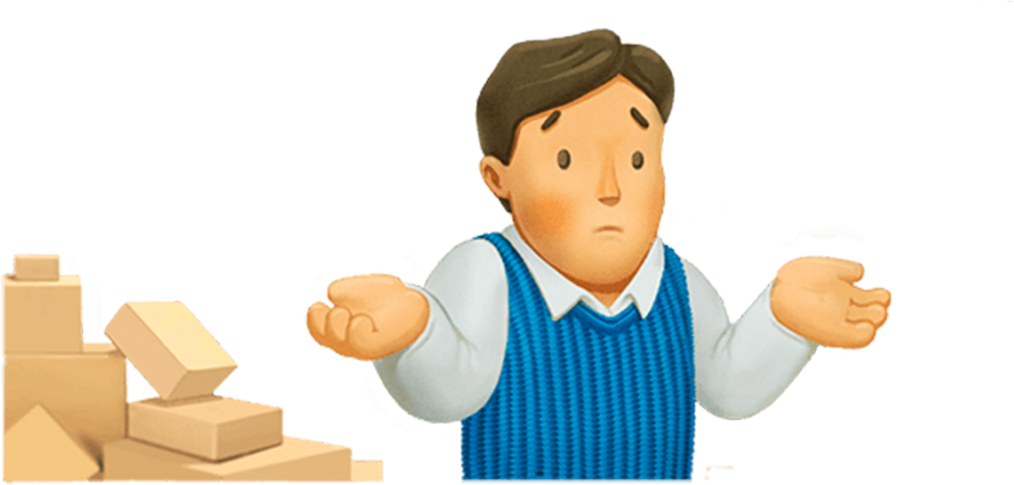
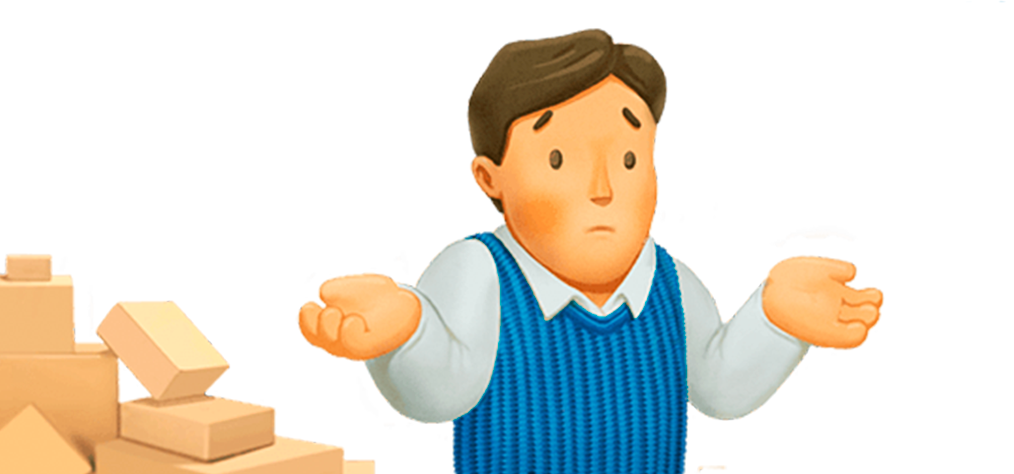
V0.7

Changed region(s): [[0.2751, 0.0591, 0.8866, 1.0], [0.0, 0.5021, 0.3974, 1.0], [0.4892, 0.0886, 0.5197, 0.1181]]

diff --git a/css/style.css b/css/style.css
@@ -93,6 +93,11 @@ a {
 	font-family: 'MyriadProRegular';
 
 } 
+p { 
+	text-decoration: none;
+	font-family: 'MyriadProRegular';
+
+} 
 #radio {
 	transform: scale(1.3);
 	opacity: 1;
@@ -126,7 +131,7 @@ a {
 footer{
 	display: block;
 	position: relative;
-	top: 10px;
+	top: 0px;
 	margin: auto;
 	bottom: 0%;
 	width: 100%;
@@ -414,8 +419,8 @@ TABLE{
 }
 #low{
 	position: relative;
-	height: 650px;
-	top: 50px;
+	height: 680px;
+	top: 74px;
 	margin: 0 auto;
 	margin-top: 0px;
 }
@@ -556,6 +561,7 @@ f{
 	color: blue;
 }	
 .works{
+	
 	position: relative;
 	display: block;
 	top: 10px;
@@ -564,15 +570,17 @@ f{
 	margin-top: 100px;
 }
 #halfsoc{
+	z-index:1;
 	position: relative;
 	display: block;
-	top: 10px;
+	top: 0px;
 	width: 100%;
-	background-image: url('../images/halfbot.png');	
+	background-image: url(../images/halfbot.png);
 	background-size: 100%;
 	
 }
 #soc{
+	
 	position: relative;
 	display: block;
 	width: 700px;
@@ -587,14 +595,14 @@ f{
 	position: relative;
 	display: block;
 	width: 990px;
-	top: 10px;
+	top: 30px;
 	margin: 0 auto;
 }
 #noitems1{
 	position: relative;
 	display: block;
 	background: url(../images/down.png); 
-	width: 1120px;
+	width: 1132px;
 	height: 100px;	
 }
 #textnoitems{

diff --git a/include/footer.php b/include/footer.php
@@ -1,10 +1,11 @@
 <?php
 echo'
-<div id="halfsoc">
+<div id="halfsoc" >
 <div id="soc">
- <div id="facebook"><a href="https://www.facebook.com/pli.pyrotehnika" target="_blank"><img src="images/facebook.png" > </div>
-  <div id="insta" style="position:absolute;left:228px;top:0px;"><a href="https://www.instagram.com/123pli_/" target="_blank" ><img src="images/instagram.png" style="left:-5px;"> </div>
-  <div id="vk" style="position:absolute;left:456px;top:0px;"><a href="https://vk.com/fejerverk123pli" target="_blank"><img src="images/vk.png" style="left:-10px;"></a></div>
+<img src="images/halfbot.png" >
+ <div id="facebook" style="position:absolute;left:-210px;top:0px;"><a href="https://www.facebook.com/pli.pyrotehnika" target="_blank"><img src="images/facebook.png" > </div>
+  <div id="insta" style="position:absolute;left:165px;top:0px;"><a href="https://www.instagram.com/123pli_/" target="_blank" ><img src="images/instagram.png" style="left:-5px;"> </div>
+  <div id="vk" style="position:absolute;left:551px;top:0px;"><a href="https://vk.com/fejerverk123pli" target="_blank"><img src="images/vk.png" style="left:-10px;"></a></div>
 </div></div>
 <footer>
 <span id="copy"> Copyright © 2017<a href="http://salut.online"> <span class="letter"> Профессиональная пиротехника</a></span></span>

diff --git a/include/body.php b/include/body.php
@@ -573,7 +573,7 @@ if(isset($_GET['cat'])){
 			</div>';
 		
 		}while($row = mysql_fetch_assoc($news, MYSQL_ASSOC));
-	}else{echo'<div id="noitems"><img src="images/noitems.png"><div id="noitems1"><div id="noitems2"><span id="textnoitems"><b><p>В данный момент в этой категории нет товара.</p><p>Что бы продолжать работу с сайтом, перейдите в другую категорию товаров или на главную страницу сайта.</p></b></span></div></div></div>';}
+	}else{echo'<div id="noitems" style="top:33px;left:10px;"><img src="images/noitems.png" ><div id="noitems1"><div id="noitems2"><span id="textnoitems"><b><p>В данный момент в этой категории нет товара.</p><p>Что бы продолжать работу с сайтом, перейдите в другую категорию товаров или на главную страницу сайта.</p></b></span></div></div></div>';}
 	echo'</div><!--Закрывает поле с товаром--> </div><!-- Конец контент -->';
 	
 
